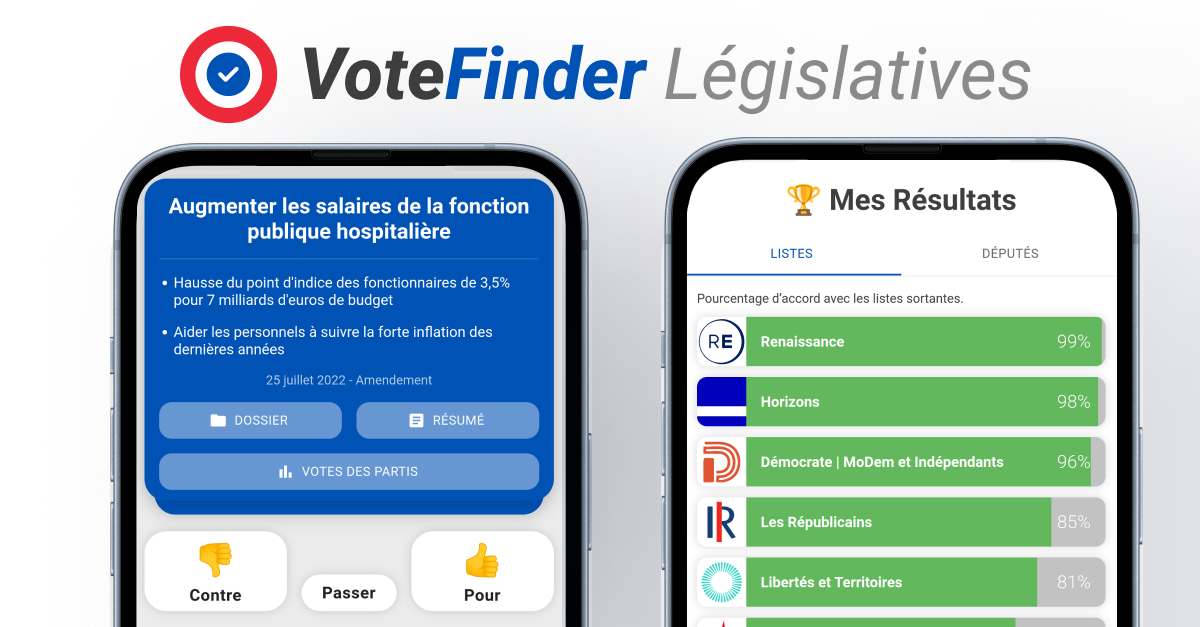
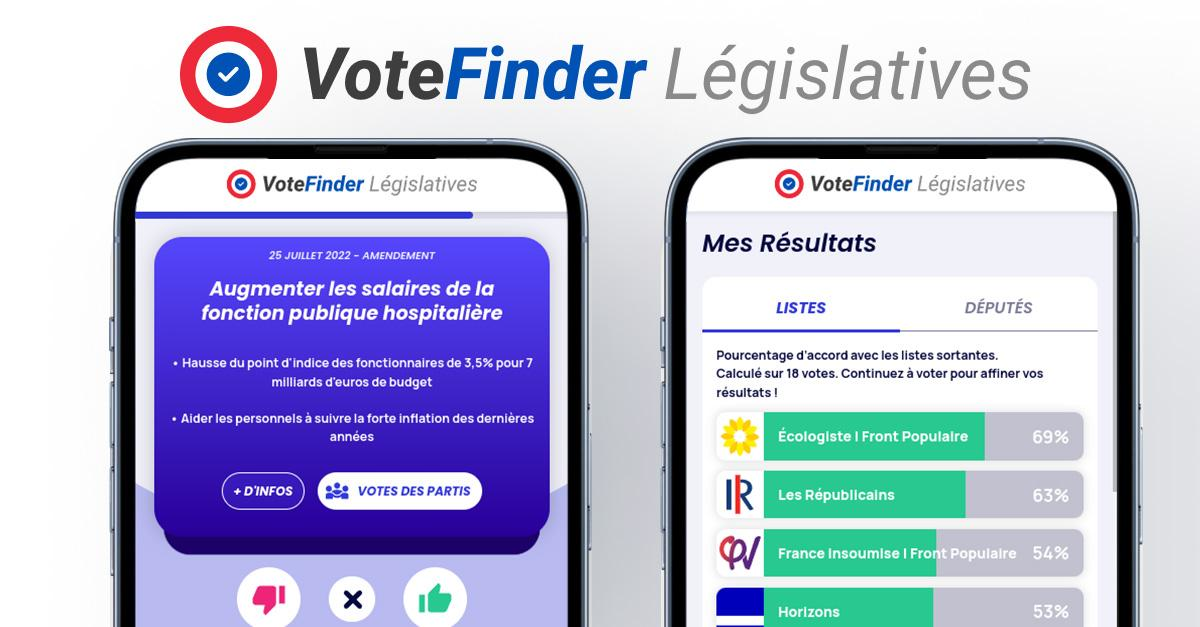
Design Tweaks (#32)
* Design Tweaks

* wip

* wip

diff --git a/frontend/src/assets/styles/pages/_Resultats.scss b/frontend/src/assets/styles/pages/_Resultats.scss
@@ -2,19 +2,20 @@
 
 .Resultats {
   width: 100%;
-  padding: 1rem;
-
   &__container {
     background-color: var(--mui-palette-background-paper);
     border-radius: 1rem;
-    padding-top: 0.5rem;
-    margin-top: 2rem;
+    margin-bottom: 2rem;
+
+    @media (max-width: 40rem) {
+      border-radius: 0;
+    }
   }
 
   &__header {
     display: flex;
-    justify-content: space-between;
-    align-items: center;
+    justify-content: space-between;	
+    margin: 1rem;
   }
 
   &__list {
@@ -26,16 +27,7 @@
 
   &__tabs {
     .MuiTabs-fixed {
-      &::after {
-        content: '';
-        position: absolute;
-        bottom: 1px;
-        left: 0;
-        width: 100%;
-        height: 1px;
-        background: color-mix(in srgb, var(--mui-palette-primary-main) 54%, transparent) !important;
-        z-index: 1;
-      }
+      border-bottom: 1px solid #e3e3e3;
     }
 
     .MuiTabs-indicator {

diff --git a/frontend/src/pages/About.jsx b/frontend/src/pages/About.jsx
@@ -29,9 +29,9 @@ export default function About() {
         <h1 className="About__title title">À Propos</h1>
 
         <div className="About__section">
-          <h2 className="About__subtitle">💡 Le projet</h2>
           <p>
-            VoteFinder est un projet bénévole,{" "}
+            VoteFinder est un projet bénévole,
+            <br />
             <a href={projectURL} target="_blank">
               open-source
             </a>
@@ -51,7 +51,7 @@ export default function About() {
         </div>
 
         <div className="About__section">
-          <h2 className="About__subtitle">🚀 Une amélioration</h2>
+          <h2 className="About__subtitle">🚀 Contribuer</h2>
           <p>
             Vous voulez corriger une erreur ou rajouter un texte de loi ?
             <br />

diff --git a/frontend/src/assets/styles/components/_Card.scss b/frontend/src/assets/styles/components/_Card.scss
@@ -134,7 +134,7 @@
   &__subtitle {
     text-align: center;
     font-weight: 600;
-    font-size: functions.calculate-rem(14);
+    font-size: functions.calculate-rem(16);
 
     &:not(:first-child) {
       margin-top: 1.25rem;
@@ -206,10 +206,11 @@
       font-weight: 700;
       padding-top: 1rem;
       padding-bottom: 1rem;
+      font-size: 1rem;
 
       svg {
-        width: 1.5rem;
-        height: 1.5rem;
+        width: 1.125rem;
+        height: 1.125rem;
         margin-right: 0.5rem;
 
         path {
@@ -233,11 +234,7 @@
   &--votes {
     .Card {
       &__title {
-        font-size: 1.375rem;
-
-        @media only screen and (min-width: breakpoints.$width-mobile) {
-          font-size: 1.75rem;
-        }
+        font-size: functions.calculate-rem(22);
       }
     }
   }

diff --git a/frontend/src/components/Card.jsx b/frontend/src/components/Card.jsx
@@ -111,7 +111,7 @@ export default function Card({ vote_id, list_id, is_votes_page, editable }) {
               className="Card__toggle-group"
               value={context.choices[vote_id]}
               exclusive
-              fullWidth={true}
+              fullWidth
               onChange={(event) =>
                 context.choose({
                   vote_id,

diff --git a/frontend/src/assets/styles/base/_global.scss b/frontend/src/assets/styles/base/_global.scss
@@ -59,7 +59,7 @@ body {
   position: relative;
   box-sizing: border-box;
   width: 100%;
-  overflow: hidden scroll;
+  overflow: hidden auto;
 
   & > * {
     margin: 0 auto;
